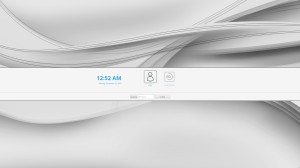
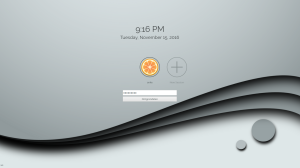
use sddm default keybaord layout breeze version fails updated previews

diff --git a/sddm/midna/Main.qml b/sddm/midna/Main.qml
@@ -168,7 +168,13 @@ Rectangle {
                     horizontalCenter: parent.horizontalCenter
                 }
 
-                KeyboardButton {
+                LayoutBox {
+                    id: layoutBox
+                    width: 90
+                    anchors.verticalCenter: parent.verticalCenter
+                    font.pixelSize: 14
+
+                    arrowIcon: "icons/angle-down.png"
                 }
 
                 //SessionButton {
